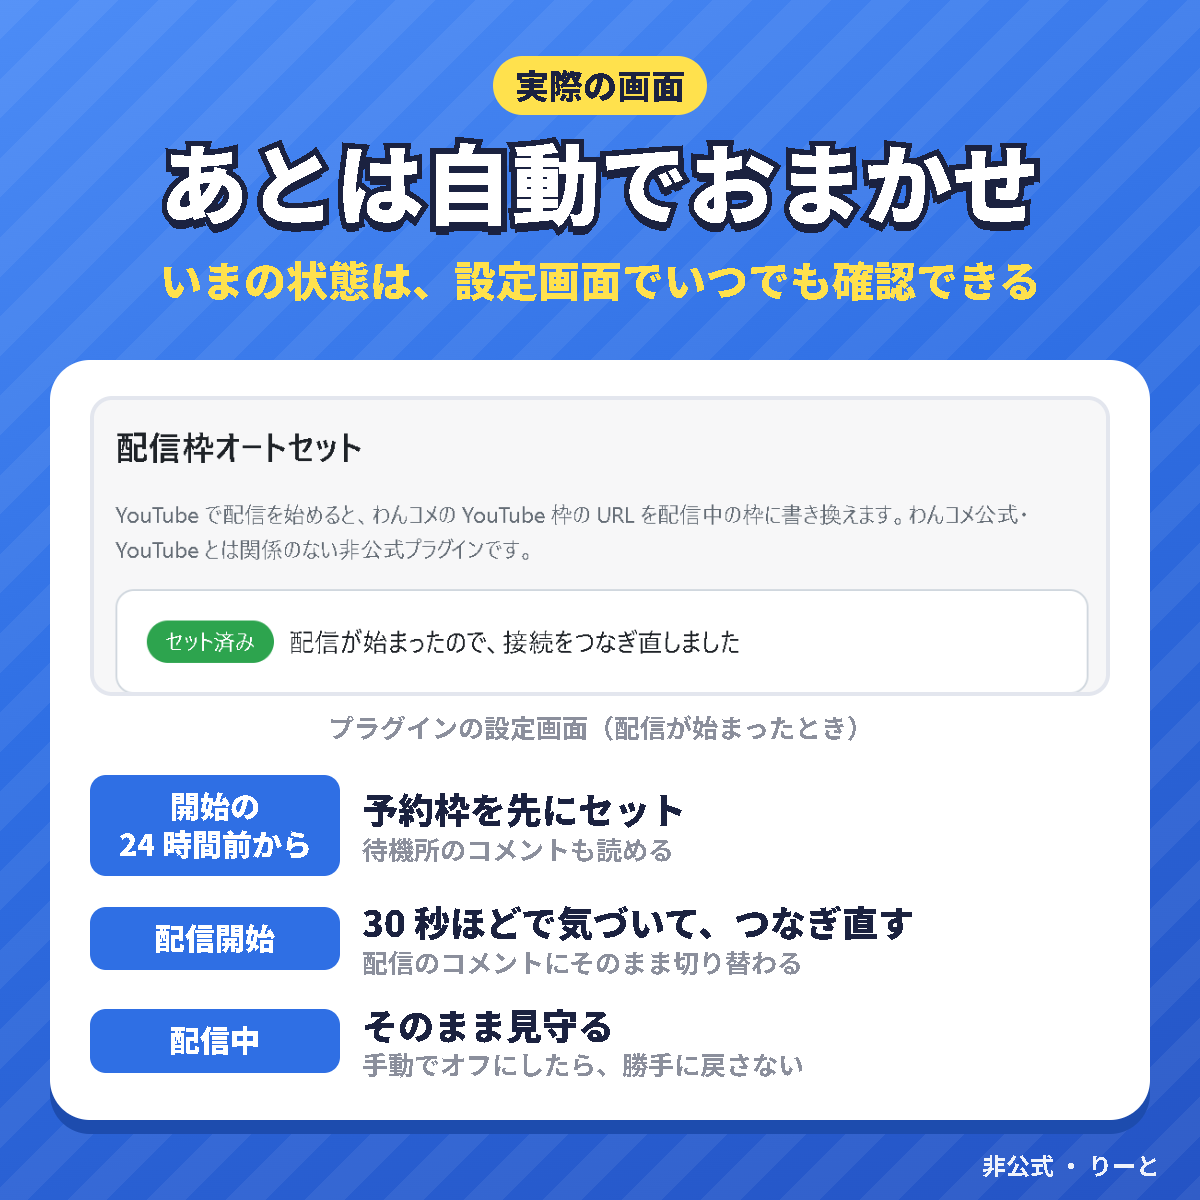
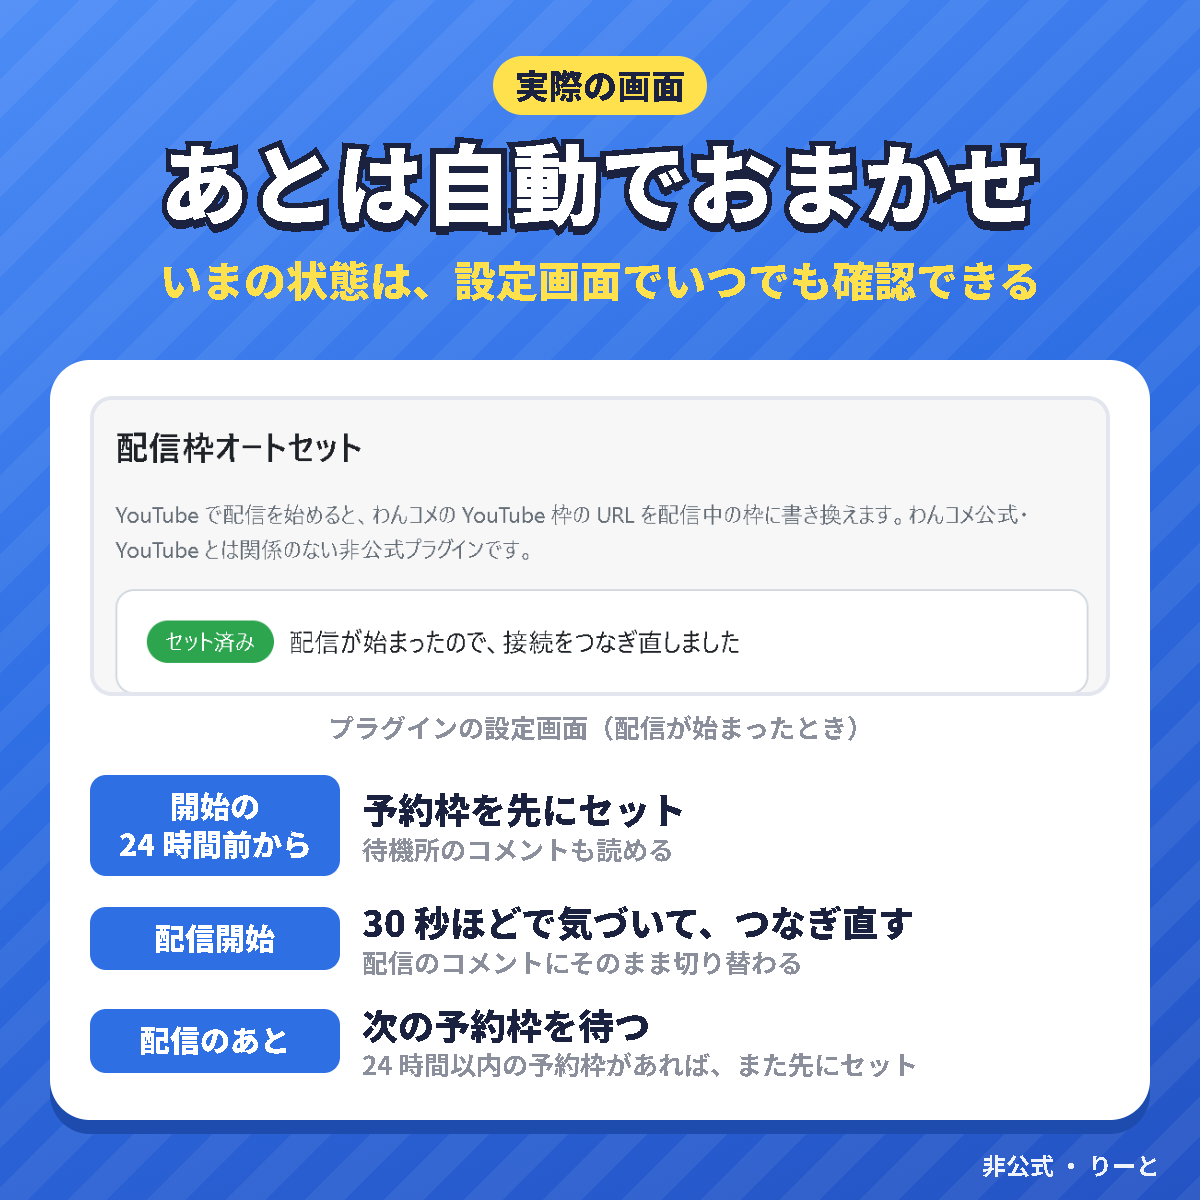
docs(booth): 2 枚目の 3 行目を「配信のあと：次の予約枠を待つ」に変える
「配信中：そのまま見守る」では何をしているか伝わりにくかったため、毎回の配信で続けて使えることを伝える内容にした。

Changed region(s): [[0.3083, 0.8325, 0.74, 0.8942], [0.1233, 0.8325, 0.2467, 0.8942]]

diff --git a/docs/booth/src/image-2.html b/docs/booth/src/image-2.html
@@ -33,7 +33,7 @@
     <div class="flow">
       <div class="item"><div class="when">開始の<br>24 時間前から</div><div class="what">予約枠を先にセット<small>待機所のコメントも読める</small></div></div>
       <div class="item"><div class="when">配信開始</div><div class="what">30 秒ほどで気づいて、つなぎ直す<small>配信のコメントにそのまま切り替わる</small></div></div>
-      <div class="item"><div class="when">配信中</div><div class="what">そのまま見守る<small>手動でオフにしたら、勝手に戻さない</small></div></div>
+      <div class="item"><div class="when">配信のあと</div><div class="what">次の予約枠を待つ<small>24 時間以内の予約枠があれば、また先にセット</small></div></div>
     </div>
   </div>
   <div class="foot">非公式 ・ りーと</div>
